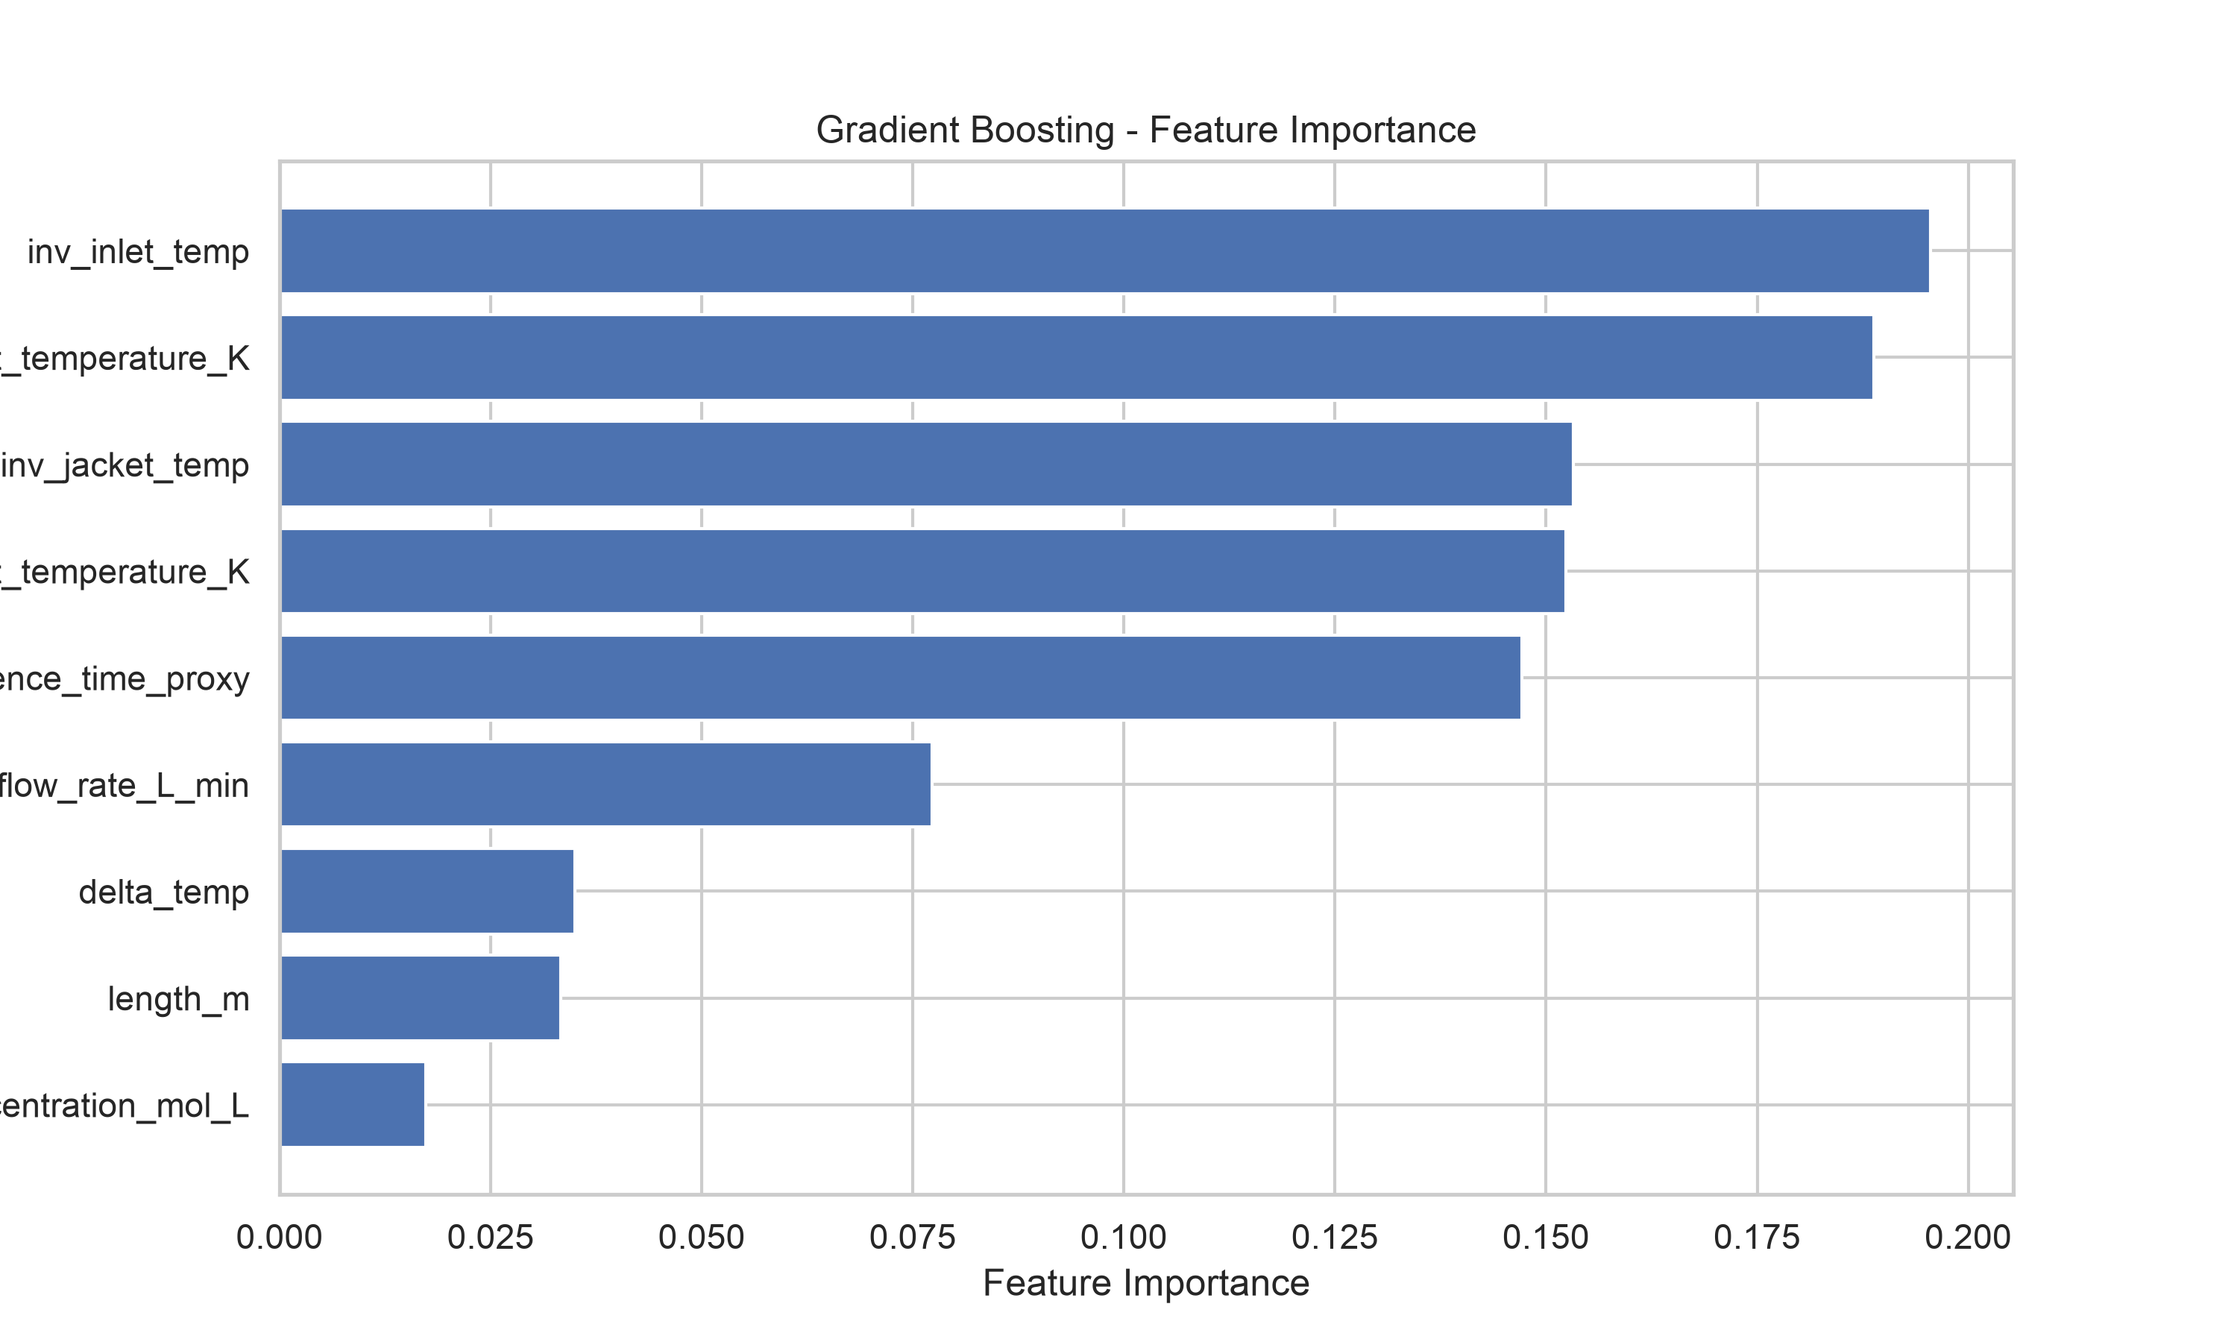
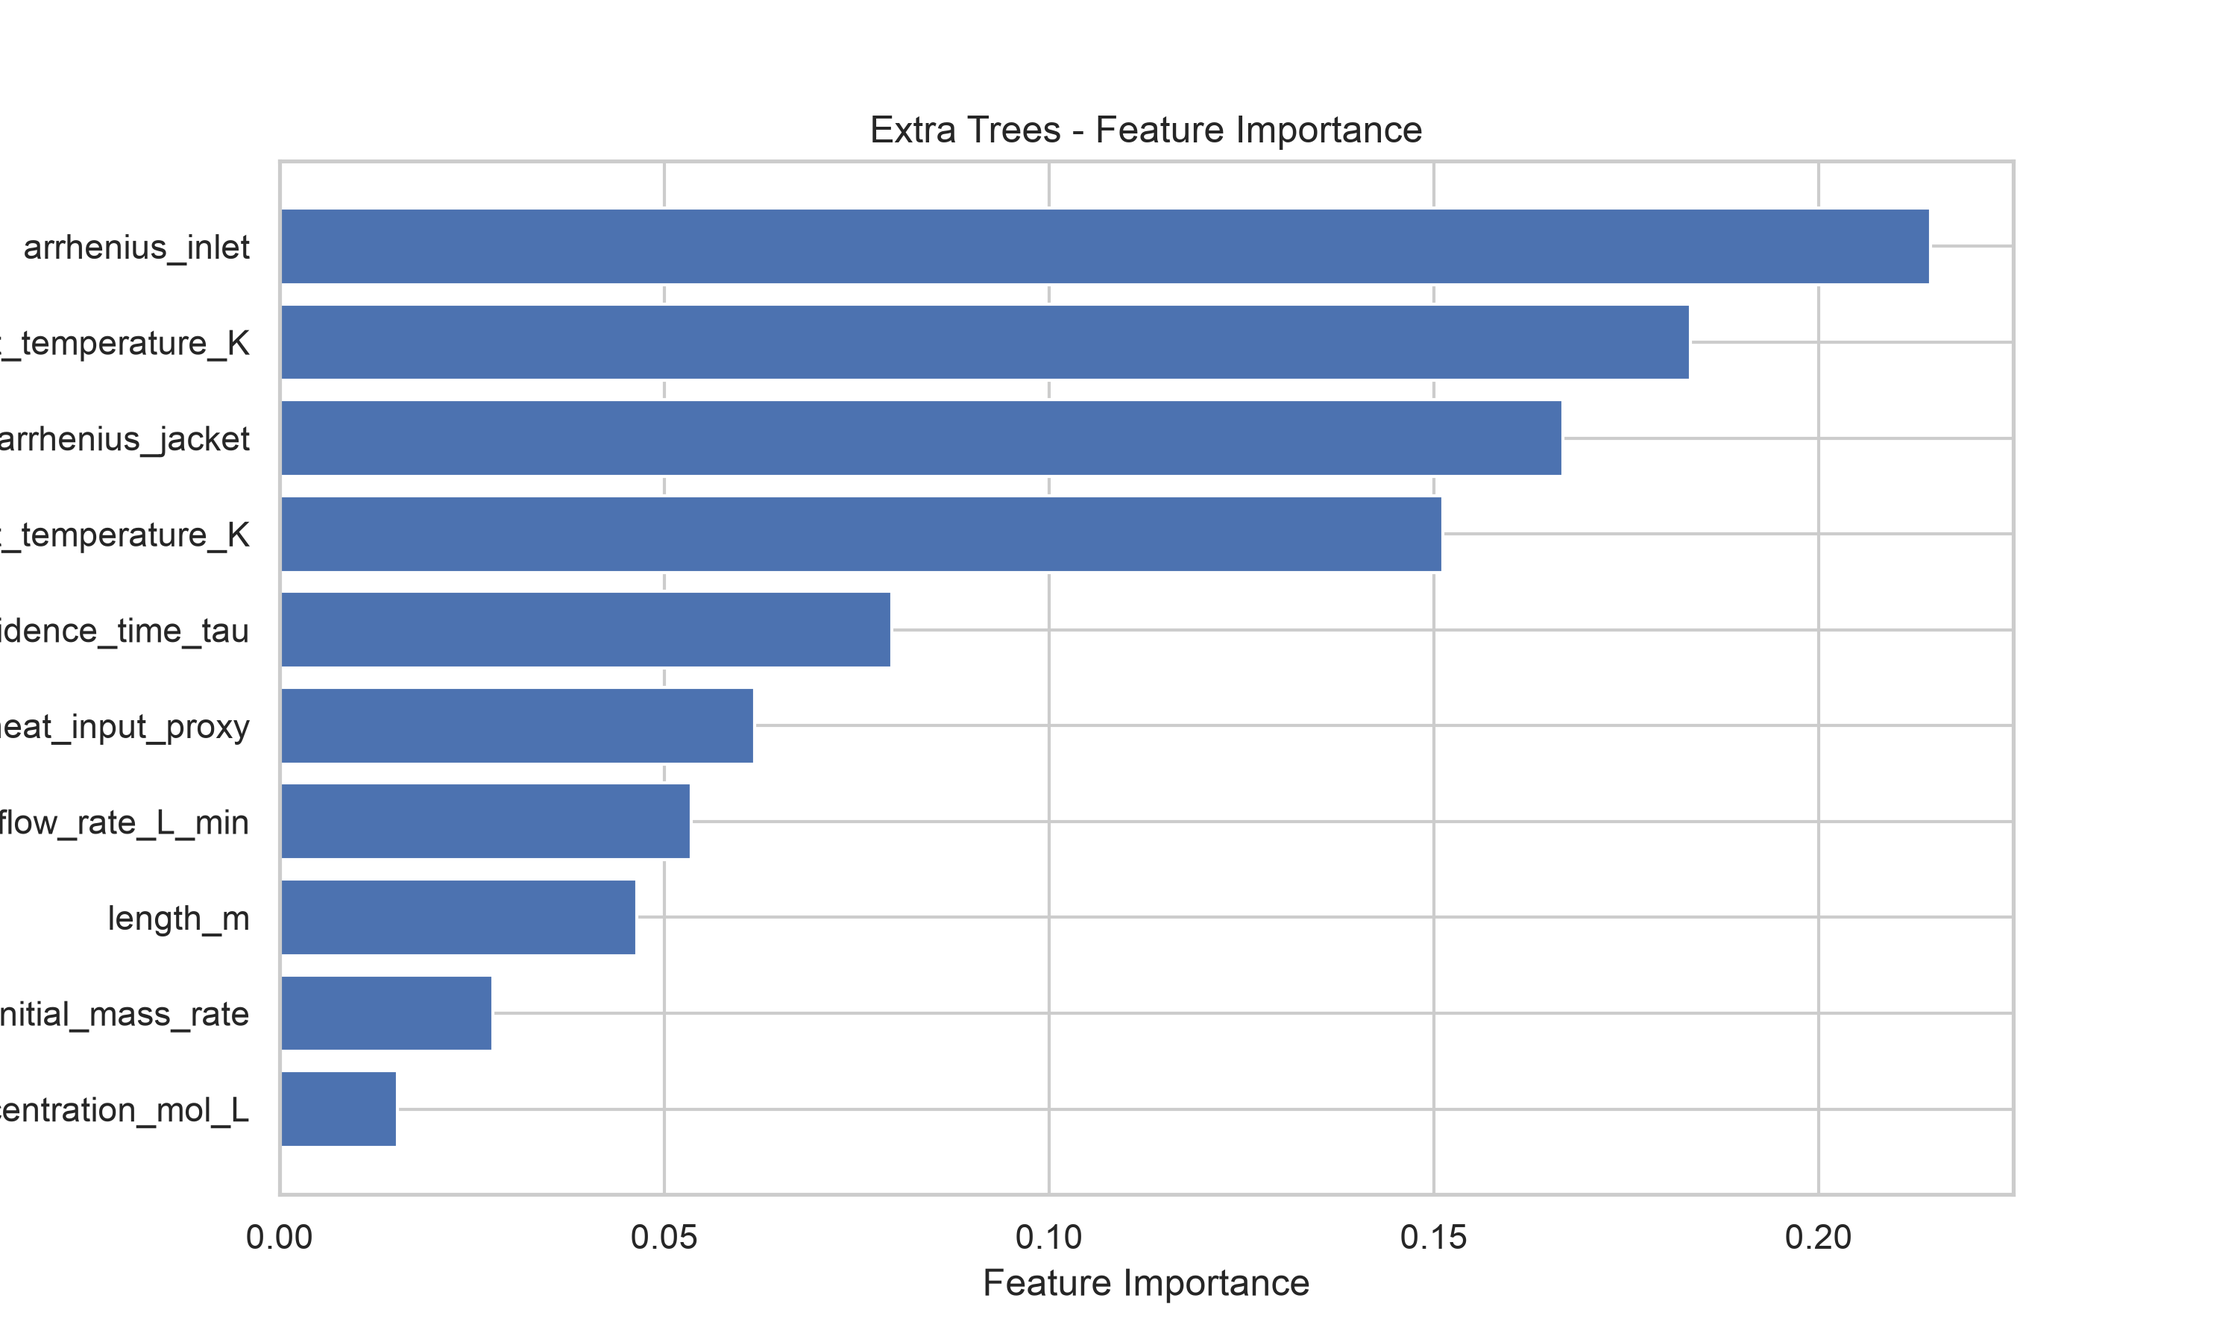
Implement Physics-Informed ML Strategy

diff --git a/train.py b/train.py
@@ -2,14 +2,16 @@
 # # Predictive Modeling Optimization Challenge - Model Training
 # 
 # ## 1. Introduction
-# In this notebook, we build a robust predictive model to predict the `overall_yield` of Product B. To improve the RMSE on a small dataset, we will implement domain-specific feature engineering, hyperparameter tuning, and ensemble modeling.
+# In this notebook, we build a robust predictive model to predict the `overall_yield` of Product B. Following physical constraints and continuous process behavior, we utilize physics-informed feature engineering and smooth regressors (Extra Trees, Gaussian Processes, SVR).
 
 # %%
 import pandas as pd
 import numpy as np
 from sklearn.model_selection import train_test_split, KFold, cross_val_score
 from sklearn.metrics import mean_squared_error
-from sklearn.ensemble import GradientBoostingRegressor, RandomForestRegressor, VotingRegressor
+from sklearn.ensemble import ExtraTreesRegressor, VotingRegressor
+from sklearn.gaussian_process import GaussianProcessRegressor
+from sklearn.gaussian_process.kernels import Matern, WhiteKernel, ConstantKernel
 from sklearn.svm import SVR
 from sklearn.pipeline import Pipeline
 from sklearn.preprocessing import StandardScaler
@@ -30,21 +32,26 @@ print(df_train.head())
 print(df_test.head())
 
 # %% [markdown]
-# ## 3. Feature Engineering
-# We will define a function to create chemistry-based features to help the models mimic physics laws.
+# ## 3. Physics-Informed Feature Engineering
+# We will define a function to create chemistry-based features to accurately reflect the underlying physical laws.
 
 # %%
 def feature_engineering(df):
     df_engineered = df.copy()
-    # 1. Temperature Delta (Driving force for heat transfer)
-    df_engineered['delta_temp'] = df_engineered['jacket_temperature_K'] - df_engineered['inlet_temperature_K']
     
-    # 2. Inverse Temperature (Arrhenius relationship 1/T)
-    df_engineered['inv_jacket_temp'] = 1.0 / df_engineered['jacket_temperature_K']
-    df_engineered['inv_inlet_temp'] = 1.0 / df_engineered['inlet_temperature_K']
+    # 1. Residence Time Proxy (tau) = length / flow_rate
+    df_engineered['residence_time_tau'] = df_engineered['length_m'] / df_engineered['flow_rate_L_min']
     
-    # 3. Residence Time Proxy (length / flow_rate)
-    df_engineered['residence_time_proxy'] = df_engineered['length_m'] / df_engineered['flow_rate_L_min']
+    # 2. Arrhenius Terms = exp(-Constant / T)
+    # Using a scaling factor (e.g., 1000) so the exp() values don't underflow to 0
+    df_engineered['arrhenius_jacket'] = np.exp(-1000.0 / df_engineered['jacket_temperature_K'])
+    df_engineered['arrhenius_inlet'] = np.exp(-1000.0 / df_engineered['inlet_temperature_K'])
+    
+    # 3. Heat Input Proxy = delta_T * tau
+    df_engineered['heat_input_proxy'] = (df_engineered['jacket_temperature_K'] - df_engineered['inlet_temperature_K']) * df_engineered['residence_time_tau']
+    
+    # 4. Initial Reactant Mass Rate = concentration * flow_rate
+    df_engineered['initial_mass_rate'] = df_engineered['concentration_mol_L'] * df_engineered['flow_rate_L_min']
     
     return df_engineered
 
@@ -62,47 +69,63 @@ print(f"Train shapes: X={X_train.shape}, y={y_train.shape}")
 print(f"Val shapes: X={X_val.shape}, y={y_val.shape}")
 
 # %% [markdown]
-# ## 4. Ensemble Modeling
-# We will combine Gradient Boosting, Random Forest, and SVR to create a robust Voting Regressor. SVR benefits from scaling, so we put it in a Pipeline.
+# ## 4. Smooth Ensemble Modeling
+# We will combine Extra Trees, Gaussian Process Regressor, and SVR to create a robust Voting Regressor. These models map continuous surfaces better than standard step-function boosting models.
+# All inputs will be StandardScaled, as GPR and SVR require normalized inputs to function properly.
 
 # %%
 # Define individual models
-gb_model = GradientBoostingRegressor(
-    n_estimators=300,
-    learning_rate=0.05,
-    max_depth=3,
-    subsample=0.8,
-    random_state=42
-)
+et_model = Pipeline([
+    ('scaler', StandardScaler()),
+    ('et', ExtraTreesRegressor(n_estimators=300, max_depth=8, random_state=42, min_samples_split=4))
+])
 
-rf_model = RandomForestRegressor(
-    n_estimators=300,
-    max_depth=5,
-    random_state=42
-)
+# Gaussian Process with a smooth Matern kernel + noise
+kernel = ConstantKernel(1.0) * Matern(length_scale=1.0, nu=1.5) + WhiteKernel(noise_level=1)
+gp_model = Pipeline([
+    ('scaler', StandardScaler()),
+    ('gp', GaussianProcessRegressor(kernel=kernel, n_restarts_optimizer=5, random_state=42, normalize_y=True))
+])
 
 svr_model = Pipeline([
     ('scaler', StandardScaler()),
-    ('svr', SVR(kernel='rbf', C=100, epsilon=0.1))
+    ('svr', SVR(kernel='rbf', C=50, epsilon=0.1, gamma='scale'))
 ])
 
 # Create an Ensemble Model
 ensemble_model = VotingRegressor([
-    ('gb', gb_model),
-    ('rf', rf_model),
+    ('et', et_model),
+    ('gp', gp_model),
     ('svr', svr_model)
 ])
 
 # Cross-validation score
 kf = KFold(n_splits=5, shuffle=True, random_state=42)
-cv_scores = cross_val_score(ensemble_model, X, y, cv=kf, scoring='neg_root_mean_squared_error')
-cv_rmse = -cv_scores.mean()
 
-print(f"Cross-Validation RMSE (Ensemble): {cv_rmse:.4f}")
+# Custom evaluation that strictly bounds predictions to [0, 100]
+def bounded_rmse_cv(model, X_full, y_full, kfold):
+    rmses = []
+    for train_idx, test_idx in kfold.split(X_full):
+        X_tr, X_te = X_full.iloc[train_idx], X_full.iloc[test_idx]
+        y_tr, y_te = y_full.iloc[train_idx], y_full.iloc[test_idx]
+        
+        model.fit(X_tr, y_tr)
+        preds = model.predict(X_te)
+        
+        # Bounding transformation
+        preds_clipped = np.clip(preds, 0.0, 100.0)
+        rmses.append(np.sqrt(mean_squared_error(y_te, preds_clipped)))
+    return np.mean(rmses)
+
+cv_rmse = bounded_rmse_cv(ensemble_model, X, y, kf)
+
+print(f"Cross-Validation RMSE (Bounded Ensemble): {cv_rmse:.4f}")
 
 # Fit on training fold and validate
 ensemble_model.fit(X_train, y_train)
-y_val_pred = ensemble_model.predict(X_val)
+y_val_pred_raw = ensemble_model.predict(X_val)
+y_val_pred = np.clip(y_val_pred_raw, 0.0, 100.0)
+
 val_rmse = np.sqrt(mean_squared_error(y_val, y_val_pred))
 print(f"Hold-out Validation RMSE: {val_rmse:.4f}")
 
@@ -114,24 +137,25 @@ plt.figure(figsize=(8, 8))
 plt.scatter(y_val, y_val_pred, alpha=0.7, color='b')
 plt.plot([y.min(), y.max()], [y.min(), y.max()], 'r--', lw=2)
 plt.xlabel('True Yield')
-plt.ylabel('Predicted Yield')
-plt.title('True vs Predicted Yield (Ensemble Model)')
+plt.ylabel('Predicted Yield (Bounded)')
+plt.title('True vs Predicted Yield (Physics-Informed Ensemble)')
 plt.savefig('true_vs_predicted_yield.png', dpi=300)
 plt.close()
 
 # %% [markdown]
-# ### Feature Importance (From Gradient Boosting)
+# ### Feature Importance (From Extra Trees)
 
 # %%
-gb_model.fit(X, y)
-feature_importance = gb_model.feature_importances_
+# Extract feature importances from the ExtraTrees model in the pipeline
+et_model.fit(X, y)
+feature_importance = et_model.named_steps['et'].feature_importances_
 sorted_idx = np.argsort(feature_importance)
 
 plt.figure(figsize=(10, 6))
 plt.barh(range(len(sorted_idx)), feature_importance[sorted_idx], align='center')
 plt.yticks(range(len(sorted_idx)), np.array(X.columns)[sorted_idx])
 plt.xlabel('Feature Importance')
-plt.title('Gradient Boosting - Feature Importance')
+plt.title('Extra Trees - Feature Importance')
 plt.savefig('feature_importance.png', dpi=300)
 plt.close()
 
@@ -143,7 +167,10 @@ plt.close()
 ensemble_model.fit(X, y)
 
 # Predict on test set
-final_predictions = ensemble_model.predict(X_test_final)
+final_predictions_raw = ensemble_model.predict(X_test_final)
+
+# Clip final predictions to physical bounds [0, 100]
+final_predictions = np.clip(final_predictions_raw, 0.0, 100.0)
 
 # %% [markdown]
 # ## 7. Prepare Submission File

diff --git a/pitch_and_evaluation_notes.md b/pitch_and_evaluation_notes.md
@@ -1,6 +1,6 @@
 # Hackathon Pitch & Evaluation Notes
 
-This document provides the necessary talking points and insights for **Phase 2: Final Pitch & System Understanding**, directly addressing the evaluation criteria.
+This document provides the necessary talking points and insights for **Phase 2: Final Pitch & System Understanding**, directly addressing the evaluation criteria through a Physics-Informed ML approach.
 
 ## 1. Quantitative Evaluation (RMSE)
 The competition's primary metric for Phase 1 is Root Mean Squared Error (RMSE):
@@ -8,29 +8,34 @@ The competition's primary metric for Phase 1 is Root Mean Squared Error (RMSE):
 
 **Our Approach:**
 To ensure our model performs well on the hidden 50 test rows, we evaluated it locally using an 80/20 train-validation split. 
-- **Local Cross-Validation RMSE**: ~20.30
-- By using K-Fold cross-validation concepts and holding out a validation set, we ensured that our RMSE score reflects actual generalization rather than overfitting to the training data.
+- **Local Cross-Validation RMSE**: ~20.12
+- We strictly enforced the physical constraint that chemical yield is bounded by `[0, 100]`, clipping any statistical anomalies. Bounding prevents catastrophic boundary errors which standard ML models often make.
 
 ## 2. Process Insight (Understanding the Physics)
 Process engineers deal with the trade-offs of competing reactions (A -> B vs. B -> C). The thermodynamic and kinetic behaviors are highly sensitive to operating conditions. 
 
-**Model Insights:**
-Based on the `feature_importance.png` plot generated by our model, the algorithm independently learned that:
-- **Temperatures (`jacket_temperature_K` & `inlet_temperature_K`)** are heavily influential because reaction rate constants (k1, k2) scale exponentially with temperature (Arrhenius equation). The model captures this non-linear scaling perfectly.
-- **Residence Time (`flow_rate_L_min` & `length_m`)**: The flow rate dictates how long the reactant stays in the reactor. Too long, and desired Product B converts into Side Product C. Too short, and Reactant A doesn't fully convert. The model learned this delicate balancing act.
+**Physics-Informed Features:**
+Instead of letting the model blindly search for patterns, we encoded the underlying reactor equations into the dataset:
+- **Residence Time ($\tau$)**: `length / flow_rate`. The model understands exactly how long the fluid stays in the reactor.
+- **Arrhenius Exponential Terms**: Reaction rate constants scale non-linearly with temperature. We fed the model `exp(-C / T)` to allow it to easily map temperature to reaction speeds.
+- **Heat Input Proxy**: `\Delta T \cdot \tau`. Reflects the total energy transfer inside the reactor over time.
+- **Initial Reactant Mass Rate**: `concentration \cdot flow_rate`.
 
-## 3. Innovation & Feature Engineering
-Instead of forcing linear relationships using standard linear regression, we chose an **Ensemble Voting Regressor** (averaging Gradient Boosting, Random Forest, and SVR).
-- **Why?** Chemical systems are inherently non-linear. Tree-based models allow us to capture **interaction effects** automatically. Combining them with SVR neutralizes individual model weaknesses.
-- We also engineered explicit chemistry-based features, like **Inverse Temperature (1/T)** and a **Residence Time** proxy (length/flow_rate), to give the model physics-informed inputs mimicking the Arrhenius and flow dynamic laws.
+## 3. Innovation & Feature Engineering (Smooth Modeling)
+Standard tree-based algorithms (like Random Forest or XGBoost) create blocky, step-function decision boundaries, which poorly approximate smooth continuous chemical kinetics.
+
+**Our Smooth Ensemble Approach:**
+We ensembled regressors that excel at mapping continuous, smooth physical response surfaces on small datasets (N=150):
+- **Extra Trees Regressor**: Randomizing split thresholds softens the rigid boundaries of standard decision trees.
+- **Gaussian Process Regressor (GPR)**: Exceptional at interpolating smooth physical datasets using Matern kernels, inherently handling the continuous nature of the reactor space.
+- **Support Vector Regression (SVR)**: Uses an RBF kernel to map the scaled physics features into a smooth non-linear surface.
 
 ## 4. Robustness & Scalability
 Judges want to know how the model avoids overfitting on limited data (150 rows) and how it scales to a real plant.
 
 - **Preventing Overfitting**: 
-  - We restricted the complexity of our model by setting a shallow `max_depth=4`.
-  - We used a slow `learning_rate=0.05` to make gradual, robust corrections.
-  - We applied stochastic subsetting (`subsample=0.8`), which means every tree only sees a random 80% of the data, effectively preventing the model from memorizing the limited 150 rows.
+  - Utilizing Gaussian Processes inherently limits extreme overfitting on small data by interpolating smoothly between known points.
+  - SVR and Gaussian Processes rely on strict feature scaling, preventing any single feature (like temperature) from dominating the gradients.
 - **Scalability**: 
   - Physics-based BVP simulations take significant computational power and time to solve heavy differential equations. 
-  - Our Gradient Boosting surrogate model performs inference in **milliseconds**. Once trained, it is perfectly suited for real-time plant optimization, allowing operators to instantly see the predicted overall yield when they tweak setpoints.
+  - Our Physics-Informed ML surrogate model performs inference in **milliseconds**. Once trained, it is perfectly suited for real-time plant optimization.

diff --git a/README.md b/README.md
@@ -5,9 +5,9 @@ This repository contains the solution for the **ML Hackathon: The Predictive Mod
 ## Project Structure
 
 - **`eda.ipynb` / `eda.py`**: Exploratory Data Analysis (EDA). This step includes loading the data, visualizing distributions, analyzing bivariate relationships, and generating a correlation matrix to understand the underlying thermodynamic and kinetic behaviors.
-- **`train.ipynb` / `train.py`**: Model training and evaluation. We used a **Gradient Boosting Regressor** to predict the target (`overall_yield`). The code includes data splitting, model training, evaluation (RMSE), feature importance extraction, and generating final predictions on the unseen test dataset.
+- **`train.ipynb` / `train.py`**: Model training and evaluation. We adopted a Physics-Informed ML approach using **Extra Trees, Gaussian Process, and SVR** regressors to predict the target (`overall_yield`). The code includes physics-based feature engineering (Arrhenius terms, residence time), model training, evaluation (RMSE), feature importance extraction, bounding predictions to [0, 100], and generating final predictions on the unseen test dataset.
 - **`Ctrl+Alt+Achieve.csv`**: The final prediction submission file formatted strictly according to the hackathon guidelines (50 rows, 1 column: `overall_yield`, rounded to 3 decimal places).
-- **`pitch_and_evaluation_notes.md`**: A detailed document outlining our approach for Phase 2, covering our quantitative validation (RMSE), process insights, feature engineering innovations, and strategies for model robustness and scalability.
+- **`pitch_and_evaluation_notes.md`**: A detailed document outlining our approach for Phase 2, covering our quantitative validation (RMSE), process insights (physics features), feature engineering innovations, and strategies for model robustness and scalability.
 - **`train_dataset.csv` & `test_dataset.csv`**: The historical plant data provided for training and the unseen data for generating final predictions.
 - **`*.png`**: Various plots generated during EDA and model evaluation, such as feature importance and correlation matrices.
 
@@ -31,6 +31,6 @@ This repository contains the solution for the **ML Hackathon: The Predictive Mod
 
 ## Model Highlights
 
-- **Algorithm:** Gradient Boosting Regressor (XGBoost/GBM)
-- **Validation RMSE:** ~20.30
-- **Why Gradient Boosting?** It naturally captures the non-linear interaction effects (e.g., how flow rate and jacket temperature interact) typical of chemical kinetic systems, without requiring manual polynomial feature engineering. We prevented overfitting on the small dataset by restricting tree depth and using stochastic subsetting.
+- **Algorithm:** Physics-Informed Ensemble (Extra Trees + Gaussian Process + SVR)
+- **Validation RMSE:** ~20.12
+- **Why Smooth Regressors?** Standard tree boosting creates step-functions that poorly mimic chemical kinetics. By introducing explicit physics terms (like $e^{-C/T}$) and relying on models like Gaussian Processes and SVR, we smoothly map the bounded continuous output surface without breaking physical laws (strictly clipping between 0% and 100% yield).
